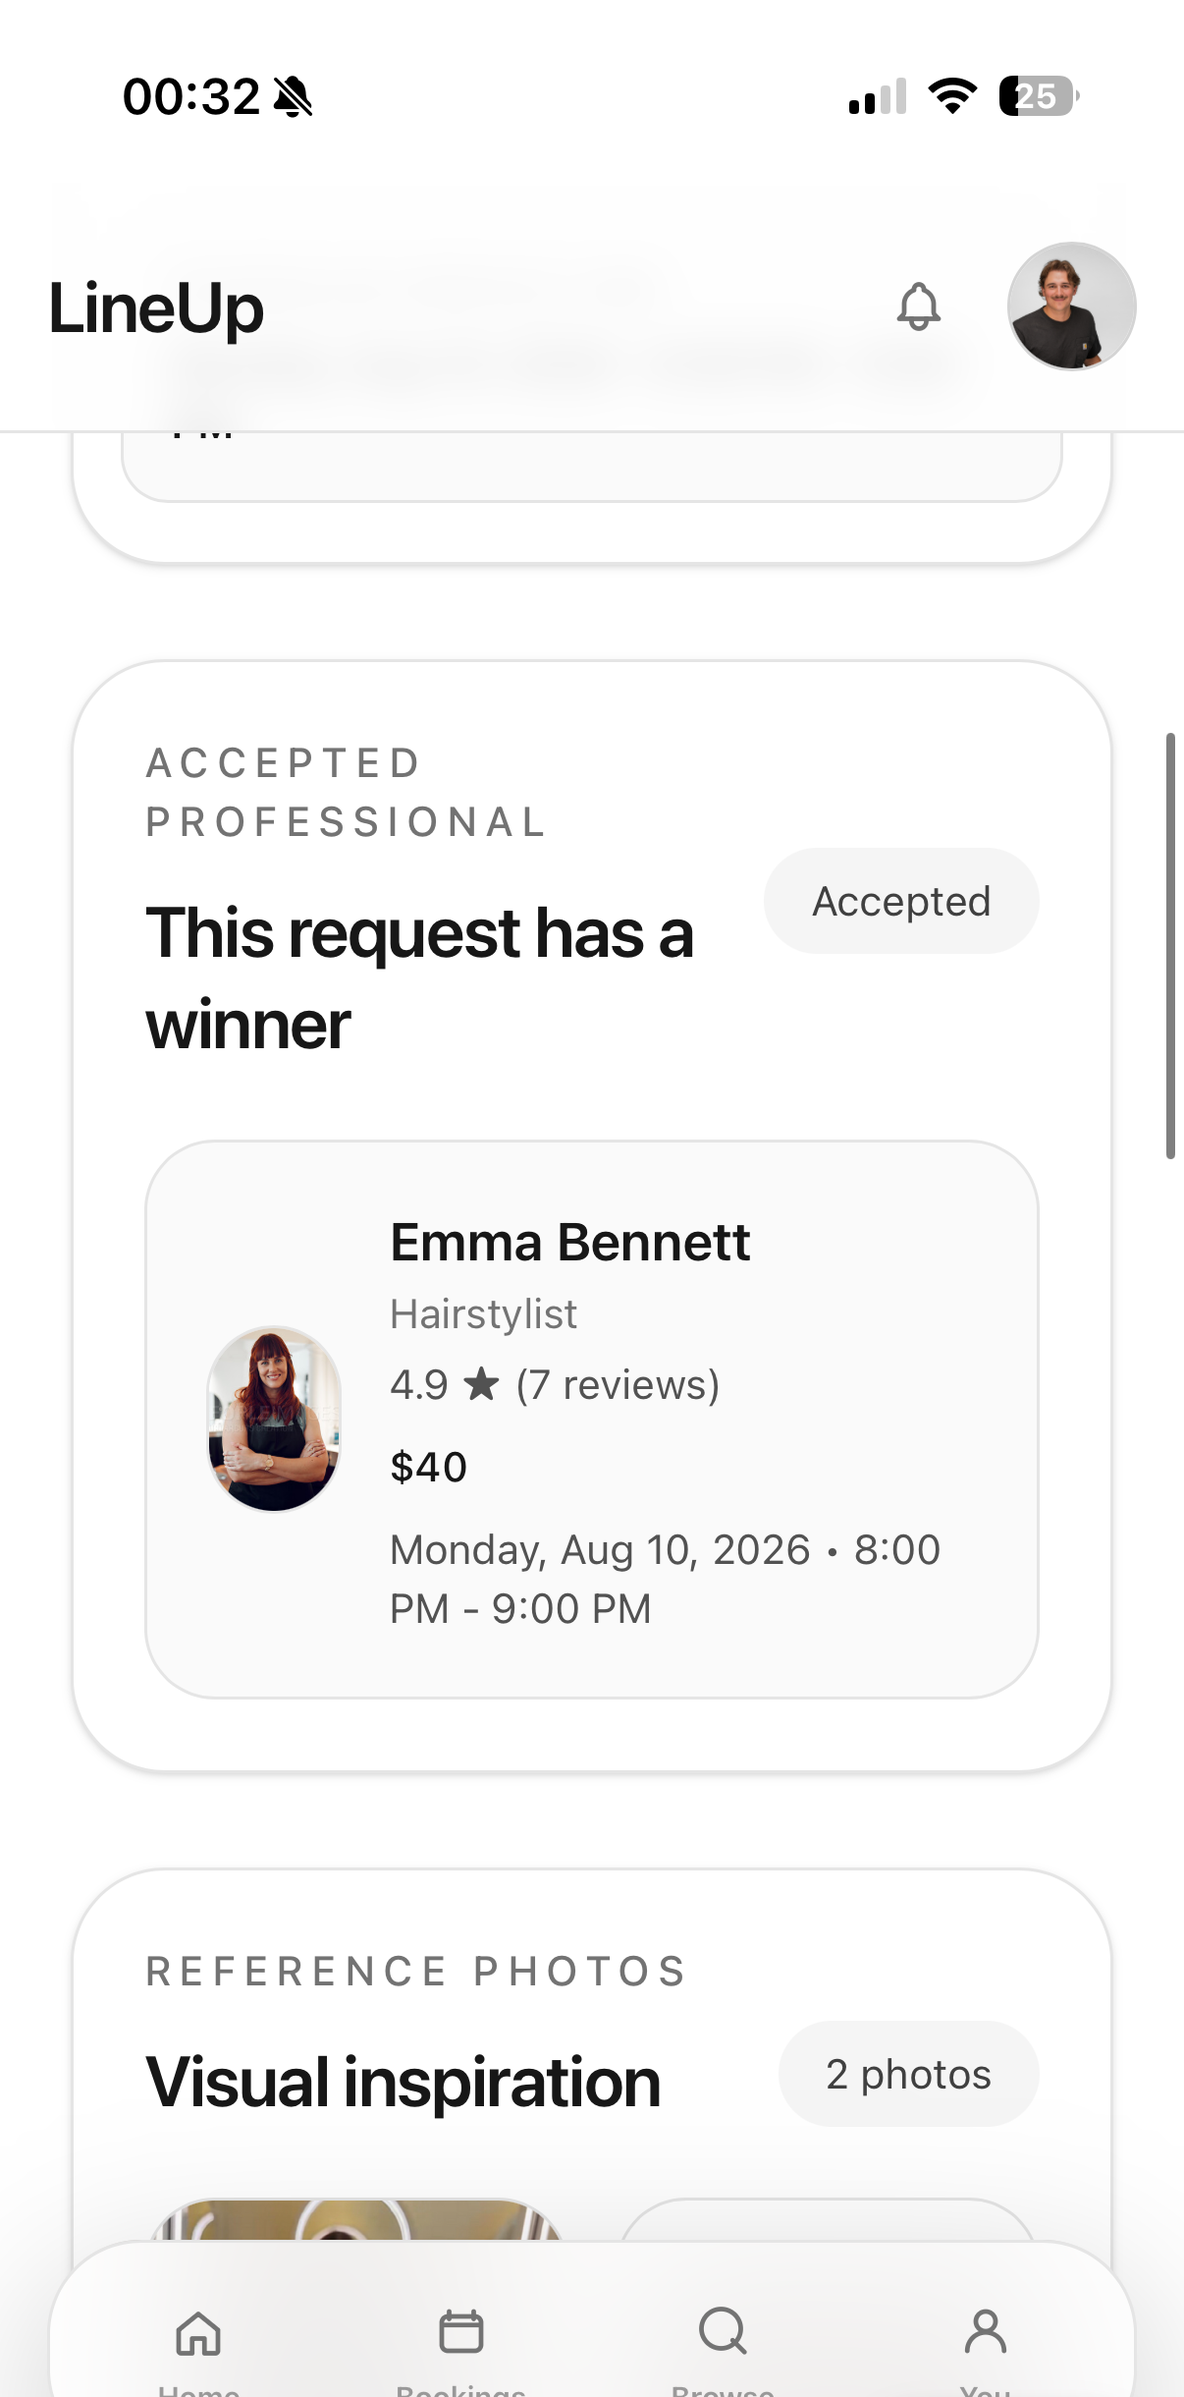
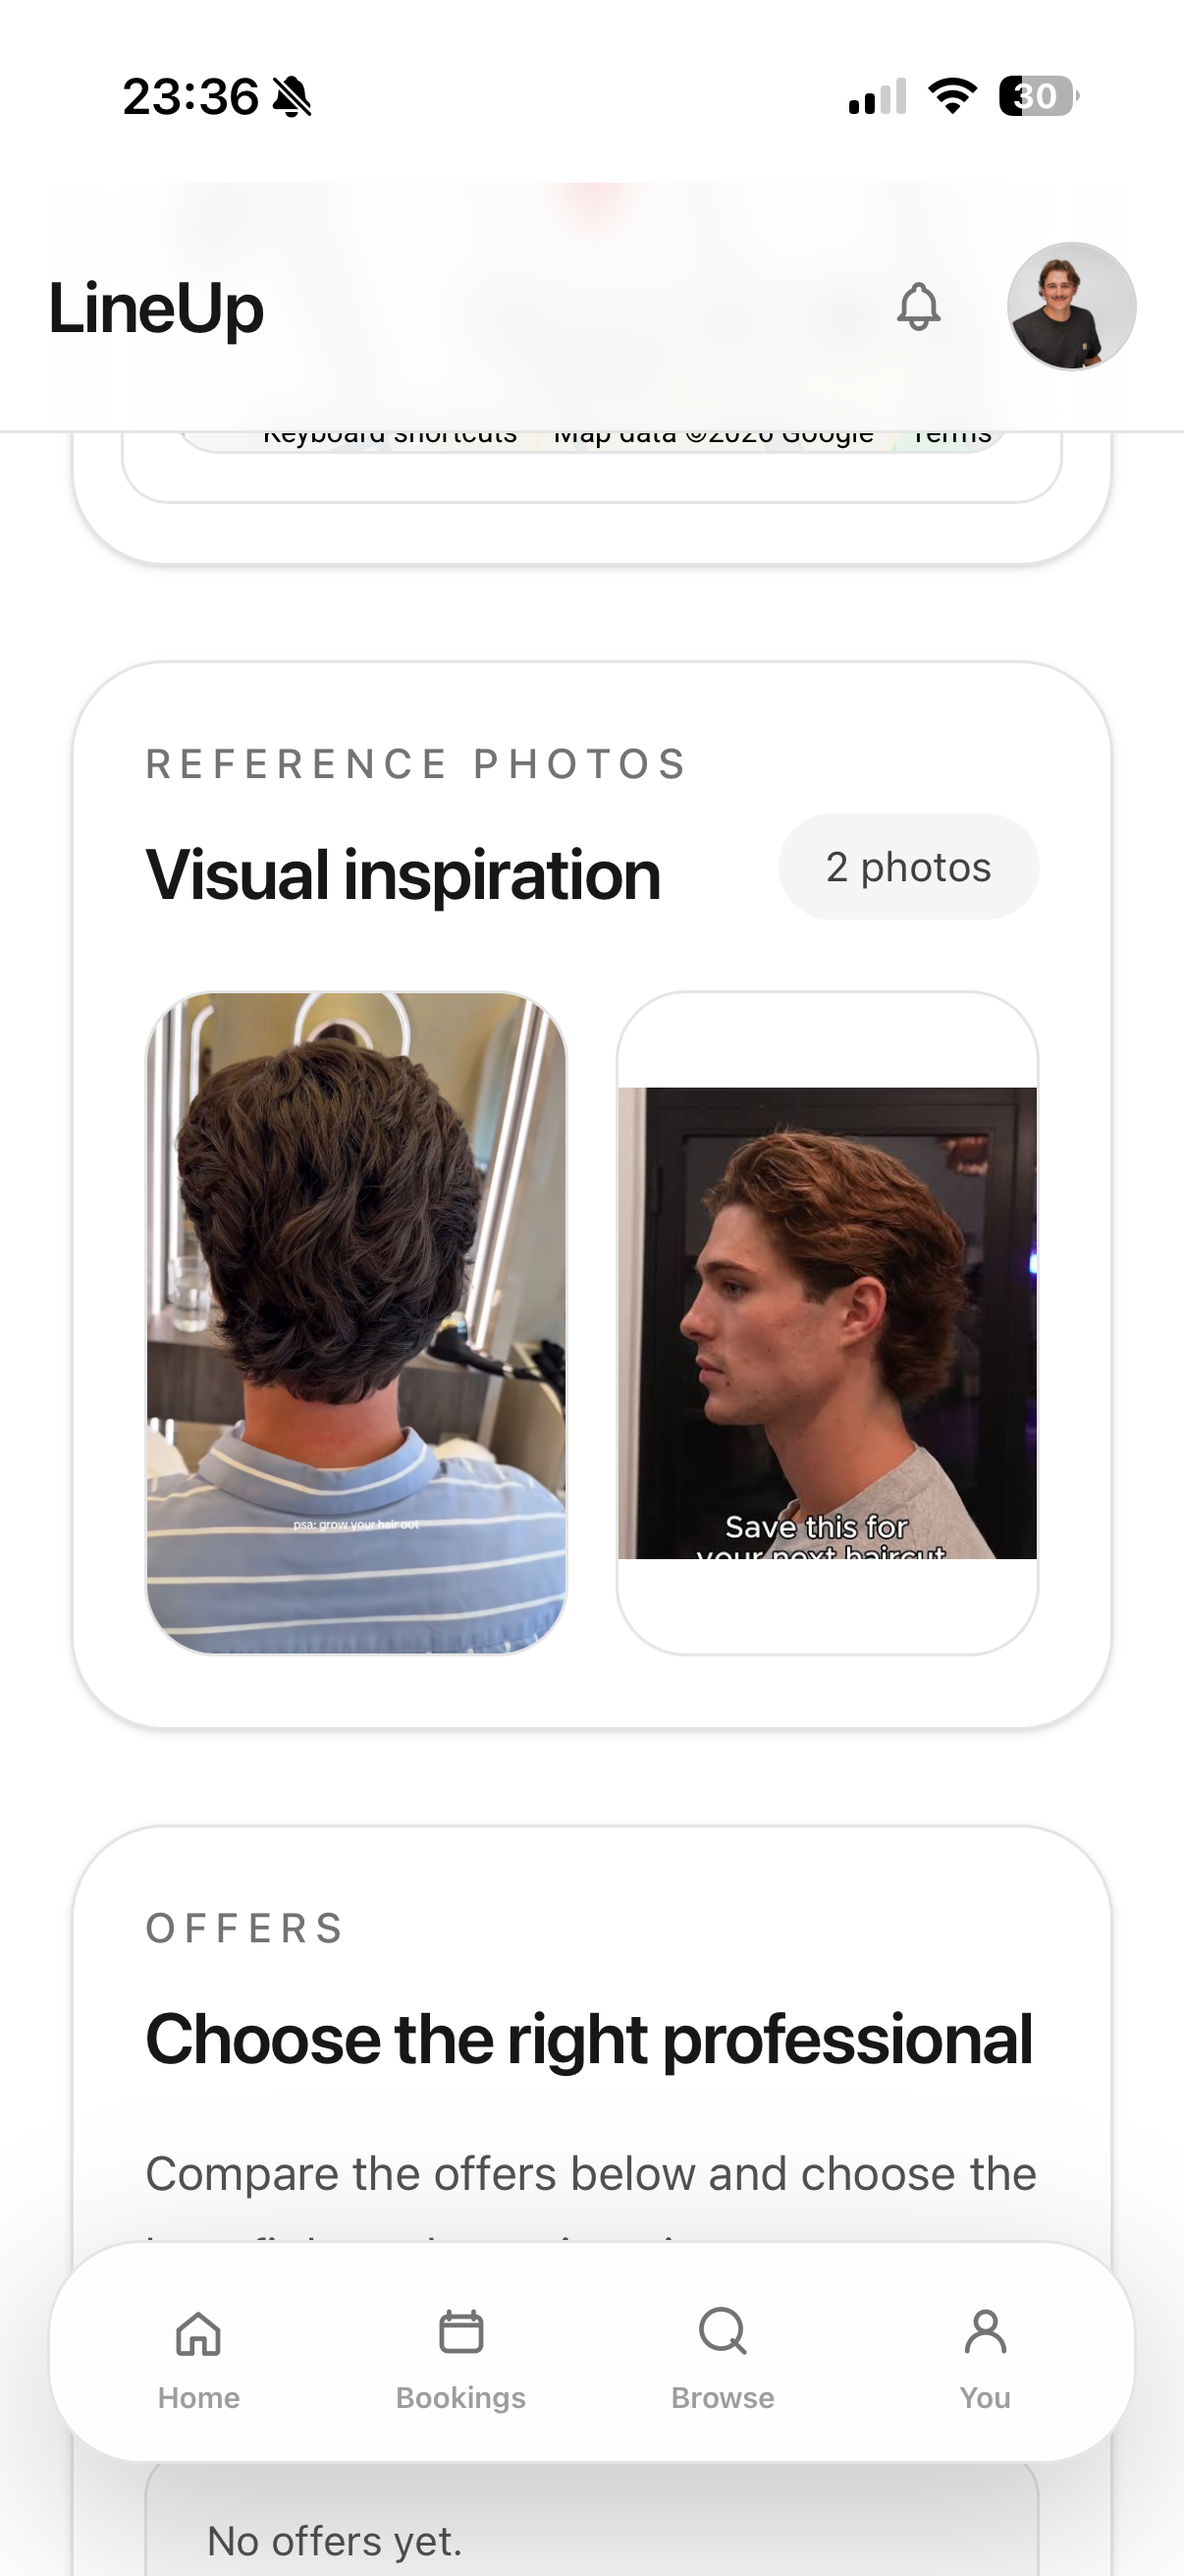
Fix inconsistent phone frame sizes, add real request/inspiration screenshots
Frames now use a fixed aspect-ratio box with object-contain so every
card renders at the same size regardless of source image dimensions.
Swaps in the real Post a Request, Active Request, and Reference Photos
screenshots and reorders the carousel to match the app's actual flow.

diff --git a/app/page.tsx b/app/page.tsx
@@ -27,6 +27,11 @@ const appTourScreens = [
     description: "Share what you need, your budget, and when you want it done.",
   },
   {
+    src: "/images/app-screenshots/00b-active-request.png",
+    tag: "Track Your Request.",
+    description: "See it live the moment you post, right on your home screen.",
+  },
+  {
     src: "/images/app-screenshots/06b-reference-photos.png",
     tag: "Add Inspiration.",
     description: "Attach reference photos so professionals know exactly what you're going for.",
@@ -444,13 +449,13 @@ export default function Page() {
                 style={{ transitionDelay: `${index * 90}ms` }}
               >
                 <div
-                  className={`relative overflow-hidden rounded-[2.25rem] border-[6px] border-neutral-900 bg-neutral-900 shadow-xl transition-transform duration-300 ease-out ${tilt} group-hover:-translate-y-3 group-hover:rotate-0 group-hover:scale-105 group-hover:shadow-2xl`}
+                  className={`relative aspect-[9/19.5] w-full overflow-hidden rounded-[2.25rem] border-[6px] border-neutral-900 bg-neutral-900 shadow-xl transition-transform duration-300 ease-out ${tilt} group-hover:-translate-y-3 group-hover:rotate-0 group-hover:scale-105 group-hover:shadow-2xl`}
                 >
                   <div className="absolute left-1/2 top-0 z-10 h-5 w-24 -translate-x-1/2 rounded-b-2xl bg-neutral-900" />
                   <img
                     src={screen.src}
                     alt={screen.tag}
-                    className="block w-full h-auto"
+                    className="h-full w-full object-contain"
                   />
                 </div>
                 <p
